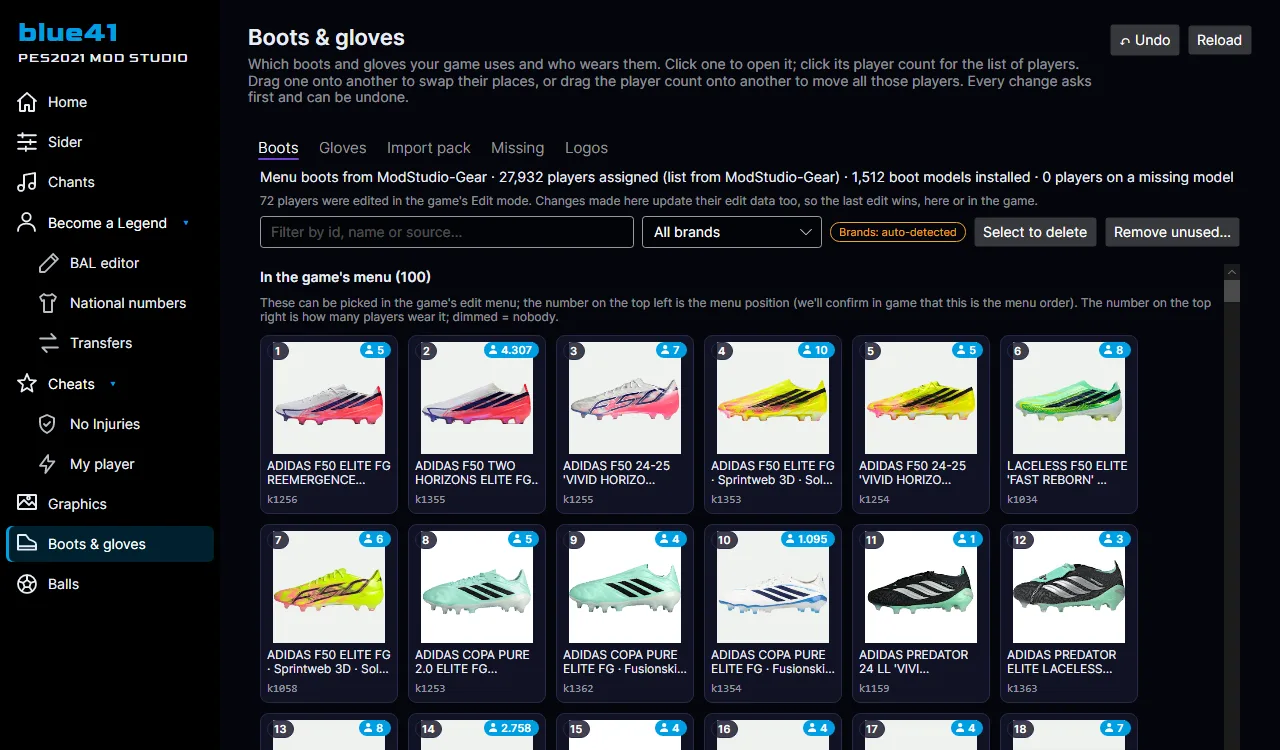
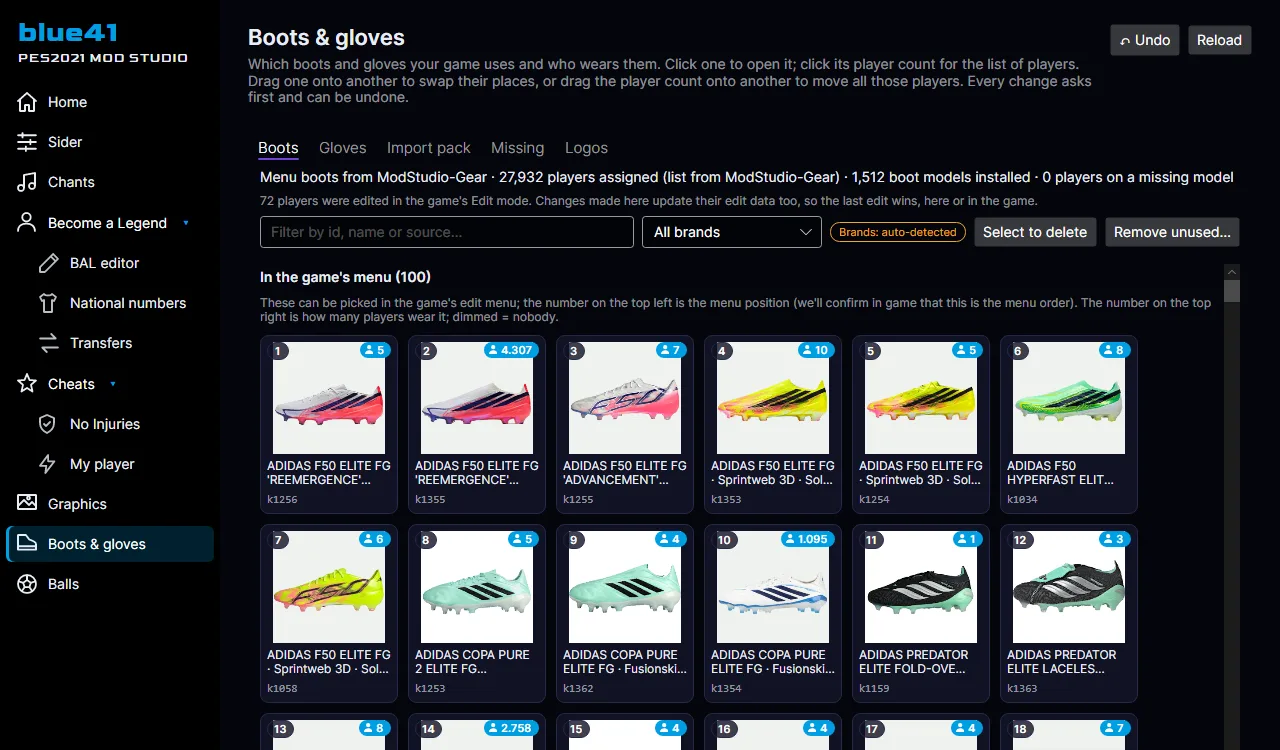
Website: visitor globe, Windows-style screen frame, BAL and star player screens, updated boots screens

diff --git a/es/index.html b/es/index.html
@@ -71,16 +71,17 @@
       <div class="screen">
         <div class="screen-bar" aria-hidden="true"><i></i><i></i><i></i></div>
         <div class="screen-shots">
-          <img src="../assets/screens/home.webp" alt="Captura de pantalla de blue41 PES2021 Mod Studio (app en inglés) — Inicio: tu juego, Sider y partidas de un vistazo" width="1280" height="800" class="on" data-label="Inicio: tu juego, Sider y partidas de un vistazo">
-          <img src="../assets/screens/boots.webp" alt="Captura de pantalla de blue41 PES2021 Mod Studio (app en inglés) — Botas y guantes: cada modelo, su posición en el menú y quién lo lleva" width="1280" height="800" loading="lazy" data-label="Botas y guantes: cada modelo, su posición en el menú y quién lo lleva">
+          <img src="../assets/screens/boots.webp" alt="Captura de pantalla de blue41 PES2021 Mod Studio (app en inglés) — Botas y guantes: cada modelo, su posición en el menú y quién lo lleva" width="1280" height="800" class="on" data-label="Botas y guantes: cada modelo, su posición en el menú y quién lo lleva">
           <img src="../assets/screens/generator.webp" alt="Captura de pantalla de blue41 PES2021 Mod Studio (app en inglés) — Generador de imágenes de menú: logos, fuentes, colores de la textura" width="1280" height="800" loading="lazy" data-label="Generador de imágenes de menú: logos, fuentes, colores de la textura">
+          <img src="../assets/screens/bal.webp" alt="Captura de pantalla de blue41 PES2021 Mod Studio (app en inglés) — Editor de Ser una Leyenda: dorsales, capitán y balón parado" width="1280" height="800" loading="lazy" data-label="Editor de Ser una Leyenda: dorsales, capitán y balón parado">
           <img src="../assets/screens/national.webp" alt="Captura de pantalla de blue41 PES2021 Mod Studio (app en inglés) — Dorsales de la selección por posición" width="1280" height="800" loading="lazy" data-label="Dorsales de la selección por posición">
+          <img src="../assets/screens/stars.webp" alt="Captura de pantalla de blue41 PES2021 Mod Studio (app en inglés) — Selecciones: las estrellas siempre con su propio dorsal" width="1280" height="800" loading="lazy" data-label="Selecciones: las estrellas siempre con su propio dorsal">
           <img src="../assets/screens/modules.webp" alt="Captura de pantalla de blue41 PES2021 Mod Studio (app en inglés) — Módulos del estudio para Sider: instalar, actualizar, desactivar" width="1280" height="800" loading="lazy" data-label="Módulos del estudio para Sider: instalar, actualizar, desactivar">
           <img src="../assets/screens/chants.webp" alt="Captura de pantalla de blue41 PES2021 Mod Studio (app en inglés) — Tus propios cánticos para cualquier equipo" width="1280" height="800" loading="lazy" data-label="Tus propios cánticos para cualquier equipo">
         </div>
       </div>
-      <p class="showcase-label" aria-live="polite">Inicio: tu juego, Sider y partidas de un vistazo</p>
-      <div class="showcase-dots"><button type="button" aria-label="1" class="on"></button><button type="button" aria-label="2"></button><button type="button" aria-label="3"></button><button type="button" aria-label="4"></button><button type="button" aria-label="5"></button><button type="button" aria-label="6"></button></div>
+      <p class="showcase-label" aria-live="polite">Botas y guantes: cada modelo, su posición en el menú y quién lo lleva</p>
+      <div class="showcase-dots"><button type="button" aria-label="1" class="on"></button><button type="button" aria-label="2"></button><button type="button" aria-label="3"></button><button type="button" aria-label="4"></button><button type="button" aria-label="5"></button><button type="button" aria-label="6"></button><button type="button" aria-label="7"></button></div>
     </section>
 
     <section id="features">
@@ -194,6 +195,7 @@
     <p>Freeware, todos los derechos reservados — consulta la <a href="../LICENSE.txt">licencia</a>.</p>
     <p class="small">Sin afiliación ni respaldo de KONAMI. eFootball y PES son marcas de KONAMI. La app no incluye archivos del juego; trabaja con tu propia instalación. Sider es una herramienta aparte de su propio autor.</p>
     <p class="langs"><a href="../" hreflang="en">English</a><a href="../pt/" hreflang="pt-BR">Português</a><a href="../es/" hreflang="es" aria-current="true">Español</a></p>
+    <div class="globe"><script src="https://revolvermaps2.com/embed.js" data-site="pm3khapg2y24" data-size="200" data-theme="custom" data-color="00fbff" data-land="2b3f5a" data-ocean="1c1c1c" async></script></div>
     <p class="made-in"><svg class="flag" viewBox="0 0 20 14" aria-hidden="true"><rect width="20" height="14" rx="2" fill="#009C3B"/><path d="M10 1.6 18.2 7 10 12.4 1.8 7z" fill="#FFDF00"/><circle cx="10" cy="7" r="3.1" fill="#002776"/></svg><span>Hecho en Brasil</span></p>
   </footer>
   <script>

diff --git a/pt/index.html b/pt/index.html
@@ -71,16 +71,17 @@
       <div class="screen">
         <div class="screen-bar" aria-hidden="true"><i></i><i></i><i></i></div>
         <div class="screen-shots">
-          <img src="../assets/screens/home.webp" alt="Captura de tela do blue41 PES2021 Mod Studio (app em inglês) — Início: jogo, Sider e saves num relance" width="1280" height="800" class="on" data-label="Início: jogo, Sider e saves num relance">
-          <img src="../assets/screens/boots.webp" alt="Captura de tela do blue41 PES2021 Mod Studio (app em inglês) — Chuteiras e luvas: cada modelo, sua posição no menu e quem usa" width="1280" height="800" loading="lazy" data-label="Chuteiras e luvas: cada modelo, sua posição no menu e quem usa">
+          <img src="../assets/screens/boots.webp" alt="Captura de tela do blue41 PES2021 Mod Studio (app em inglês) — Chuteiras e luvas: cada modelo, sua posição no menu e quem usa" width="1280" height="800" class="on" data-label="Chuteiras e luvas: cada modelo, sua posição no menu e quem usa">
           <img src="../assets/screens/generator.webp" alt="Captura de tela do blue41 PES2021 Mod Studio (app em inglês) — Gerador de imagens do menu: logos, fontes, cores da textura" width="1280" height="800" loading="lazy" data-label="Gerador de imagens do menu: logos, fontes, cores da textura">
+          <img src="../assets/screens/bal.webp" alt="Captura de tela do blue41 PES2021 Mod Studio (app em inglês) — Editor do Rumo ao Estrelato: números, capitão e bolas paradas" width="1280" height="800" loading="lazy" data-label="Editor do Rumo ao Estrelato: números, capitão e bolas paradas">
           <img src="../assets/screens/national.webp" alt="Captura de tela do blue41 PES2021 Mod Studio (app em inglês) — Números da seleção por posição" width="1280" height="800" loading="lazy" data-label="Números da seleção por posição">
+          <img src="../assets/screens/stars.webp" alt="Captura de tela do blue41 PES2021 Mod Studio (app em inglês) — Seleções: craques sempre com o próprio número" width="1280" height="800" loading="lazy" data-label="Seleções: craques sempre com o próprio número">
           <img src="../assets/screens/modules.webp" alt="Captura de tela do blue41 PES2021 Mod Studio (app em inglês) — Módulos do estúdio para o Sider: instalar, atualizar, desligar" width="1280" height="800" loading="lazy" data-label="Módulos do estúdio para o Sider: instalar, atualizar, desligar">
           <img src="../assets/screens/chants.webp" alt="Captura de tela do blue41 PES2021 Mod Studio (app em inglês) — Seus próprios cânticos para qualquer time" width="1280" height="800" loading="lazy" data-label="Seus próprios cânticos para qualquer time">
         </div>
       </div>
-      <p class="showcase-label" aria-live="polite">Início: jogo, Sider e saves num relance</p>
-      <div class="showcase-dots"><button type="button" aria-label="1" class="on"></button><button type="button" aria-label="2"></button><button type="button" aria-label="3"></button><button type="button" aria-label="4"></button><button type="button" aria-label="5"></button><button type="button" aria-label="6"></button></div>
+      <p class="showcase-label" aria-live="polite">Chuteiras e luvas: cada modelo, sua posição no menu e quem usa</p>
+      <div class="showcase-dots"><button type="button" aria-label="1" class="on"></button><button type="button" aria-label="2"></button><button type="button" aria-label="3"></button><button type="button" aria-label="4"></button><button type="button" aria-label="5"></button><button type="button" aria-label="6"></button><button type="button" aria-label="7"></button></div>
     </section>
 
     <section id="features">
@@ -194,6 +195,7 @@
     <p>Freeware, todos os direitos reservados — veja a <a href="../LICENSE.txt">licença</a>.</p>
     <p class="small">Sem afiliação ou endosso da KONAMI. eFootball e PES são marcas da KONAMI. O app não distribui arquivos do jogo; ele trabalha com a sua instalação. O Sider é uma ferramenta separada, de outro autor.</p>
     <p class="langs"><a href="../" hreflang="en">English</a><a href="../pt/" hreflang="pt-BR" aria-current="true">Português</a><a href="../es/" hreflang="es">Español</a></p>
+    <div class="globe"><script src="https://revolvermaps2.com/embed.js" data-site="pm3khapg2y24" data-size="200" data-theme="custom" data-color="00fbff" data-land="2b3f5a" data-ocean="1c1c1c" async></script></div>
     <p class="made-in"><svg class="flag" viewBox="0 0 20 14" aria-hidden="true"><rect width="20" height="14" rx="2" fill="#009C3B"/><path d="M10 1.6 18.2 7 10 12.4 1.8 7z" fill="#FFDF00"/><circle cx="10" cy="7" r="3.1" fill="#002776"/></svg><span>Feito no Brasil</span></p>
   </footer>
   <script>

diff --git a/index.html b/index.html
@@ -71,16 +71,17 @@
       <div class="screen">
         <div class="screen-bar" aria-hidden="true"><i></i><i></i><i></i></div>
         <div class="screen-shots">
-          <img src="assets/screens/home.webp" alt="Screenshot of blue41 PES2021 Mod Studio — Home: your game, Sider and saves at a glance" width="1280" height="800" class="on" data-label="Home: your game, Sider and saves at a glance">
-          <img src="assets/screens/boots.webp" alt="Screenshot of blue41 PES2021 Mod Studio — Boots & gloves: every model, its menu place and who wears it" width="1280" height="800" loading="lazy" data-label="Boots &amp; gloves: every model, its menu place and who wears it">
+          <img src="assets/screens/boots.webp" alt="Screenshot of blue41 PES2021 Mod Studio — Boots & gloves: every model, its menu place and who wears it" width="1280" height="800" class="on" data-label="Boots &amp; gloves: every model, its menu place and who wears it">
           <img src="assets/screens/generator.webp" alt="Screenshot of blue41 PES2021 Mod Studio — Menu picture generator: logos, fonts, texture colours" width="1280" height="800" loading="lazy" data-label="Menu picture generator: logos, fonts, texture colours">
+          <img src="assets/screens/bal.webp" alt="Screenshot of blue41 PES2021 Mod Studio — BAL editor: shirt numbers, captain and set pieces of your career's teams" width="1280" height="800" loading="lazy" data-label="BAL editor: shirt numbers, captain and set pieces of your career's teams">
           <img src="assets/screens/national.webp" alt="Screenshot of blue41 PES2021 Mod Studio — National team numbers by position" width="1280" height="800" loading="lazy" data-label="National team numbers by position">
+          <img src="assets/screens/stars.webp" alt="Screenshot of blue41 PES2021 Mod Studio — National teams: star players always get their own number" width="1280" height="800" loading="lazy" data-label="National teams: star players always get their own number">
           <img src="assets/screens/modules.webp" alt="Screenshot of blue41 PES2021 Mod Studio — Studio modules for Sider: install, update, turn off" width="1280" height="800" loading="lazy" data-label="Studio modules for Sider: install, update, turn off">
           <img src="assets/screens/chants.webp" alt="Screenshot of blue41 PES2021 Mod Studio — Your own crowd chants for any team" width="1280" height="800" loading="lazy" data-label="Your own crowd chants for any team">
         </div>
       </div>
-      <p class="showcase-label" aria-live="polite">Home: your game, Sider and saves at a glance</p>
-      <div class="showcase-dots"><button type="button" aria-label="1" class="on"></button><button type="button" aria-label="2"></button><button type="button" aria-label="3"></button><button type="button" aria-label="4"></button><button type="button" aria-label="5"></button><button type="button" aria-label="6"></button></div>
+      <p class="showcase-label" aria-live="polite">Boots &amp; gloves: every model, its menu place and who wears it</p>
+      <div class="showcase-dots"><button type="button" aria-label="1" class="on"></button><button type="button" aria-label="2"></button><button type="button" aria-label="3"></button><button type="button" aria-label="4"></button><button type="button" aria-label="5"></button><button type="button" aria-label="6"></button><button type="button" aria-label="7"></button></div>
     </section>
 
     <section id="features">
@@ -194,6 +195,7 @@
     <p>Freeware, all rights reserved — see the <a href="LICENSE.txt">license</a>.</p>
     <p class="small">Not affiliated with or endorsed by KONAMI. eFootball and PES are trademarks of KONAMI. The app ships no game files; it works with your own installation. Sider is a separate tool by its own author.</p>
     <p class="langs"><a href="" hreflang="en" aria-current="true">English</a><a href="pt/" hreflang="pt-BR">Português</a><a href="es/" hreflang="es">Español</a></p>
+    <div class="globe"><script src="https://revolvermaps2.com/embed.js" data-site="pm3khapg2y24" data-size="200" data-theme="custom" data-color="00fbff" data-land="2b3f5a" data-ocean="1c1c1c" async></script></div>
     <p class="made-in"><svg class="flag" viewBox="0 0 20 14" aria-hidden="true"><rect width="20" height="14" rx="2" fill="#009C3B"/><path d="M10 1.6 18.2 7 10 12.4 1.8 7z" fill="#FFDF00"/><circle cx="10" cy="7" r="3.1" fill="#002776"/></svg><span>Made in Brazil</span></p>
   </footer>
   <script>

diff --git a/style.css b/style.css
@@ -142,8 +142,14 @@ footer .langs a[aria-current] { color: var(--cyan); }
 .showcase h2 { align-self: flex-start; }
 .screen { width: 100%; max-width: 960px; border: 1px solid var(--border); border-radius: var(--radius); overflow: hidden;
   background: var(--navy); box-shadow: 0 0 40px rgba(1, 158, 226, 0.18), 0 20px 50px rgba(0, 0, 0, 0.6); cursor: pointer; }
-.screen-bar { display: flex; gap: 6px; padding: 9px 12px; background: #0B0C18; border-bottom: 1px solid var(--border); }
-.screen-bar i { width: 10px; height: 10px; border-radius: 50%; background: rgba(147, 163, 191, 0.35); }
+.screen-bar { display: flex; justify-content: flex-end; height: 30px; background: #0B0C18; border-bottom: 1px solid var(--border); }
+.screen-bar i { position: relative; width: 44px; }
+.screen-bar i::before, .screen-bar i::after { content: ""; position: absolute; left: 50%; top: 50%; border-color: rgba(147, 163, 191, 0.7); }
+.screen-bar i:nth-child(1)::before { width: 10px; border-top: 1px solid; transform: translate(-50%, 0); }
+.screen-bar i:nth-child(2)::before { width: 9px; height: 9px; border: 1px solid; transform: translate(-50%, -50%); }
+.screen-bar i:nth-child(3)::before, .screen-bar i:nth-child(3)::after { width: 13px; border-top: 1px solid; }
+.screen-bar i:nth-child(3)::before { transform: translate(-50%, 0) rotate(45deg); }
+.screen-bar i:nth-child(3)::after { transform: translate(-50%, 0) rotate(-45deg); }
 .screen-shots { position: relative; aspect-ratio: 1280 / 800; }
 .screen-shots img { position: absolute; inset: 0; width: 100%; height: 100%; object-fit: cover; object-position: top left;
   opacity: 0; transition: opacity 450ms; }
@@ -159,3 +165,6 @@ footer .langs a[aria-current] { color: var(--cyan); }
 /* footer: made in Brazil */
 .made-in { display: inline-flex; align-items: center; gap: 7px; opacity: 0.85; }
 .made-in .flag { width: 20px; height: 14px; }
+
+/* footer: visitor globe (RevolverMaps) */
+.globe { display: flex; justify-content: center; margin: 14px 0 4px; min-height: 200px; }
